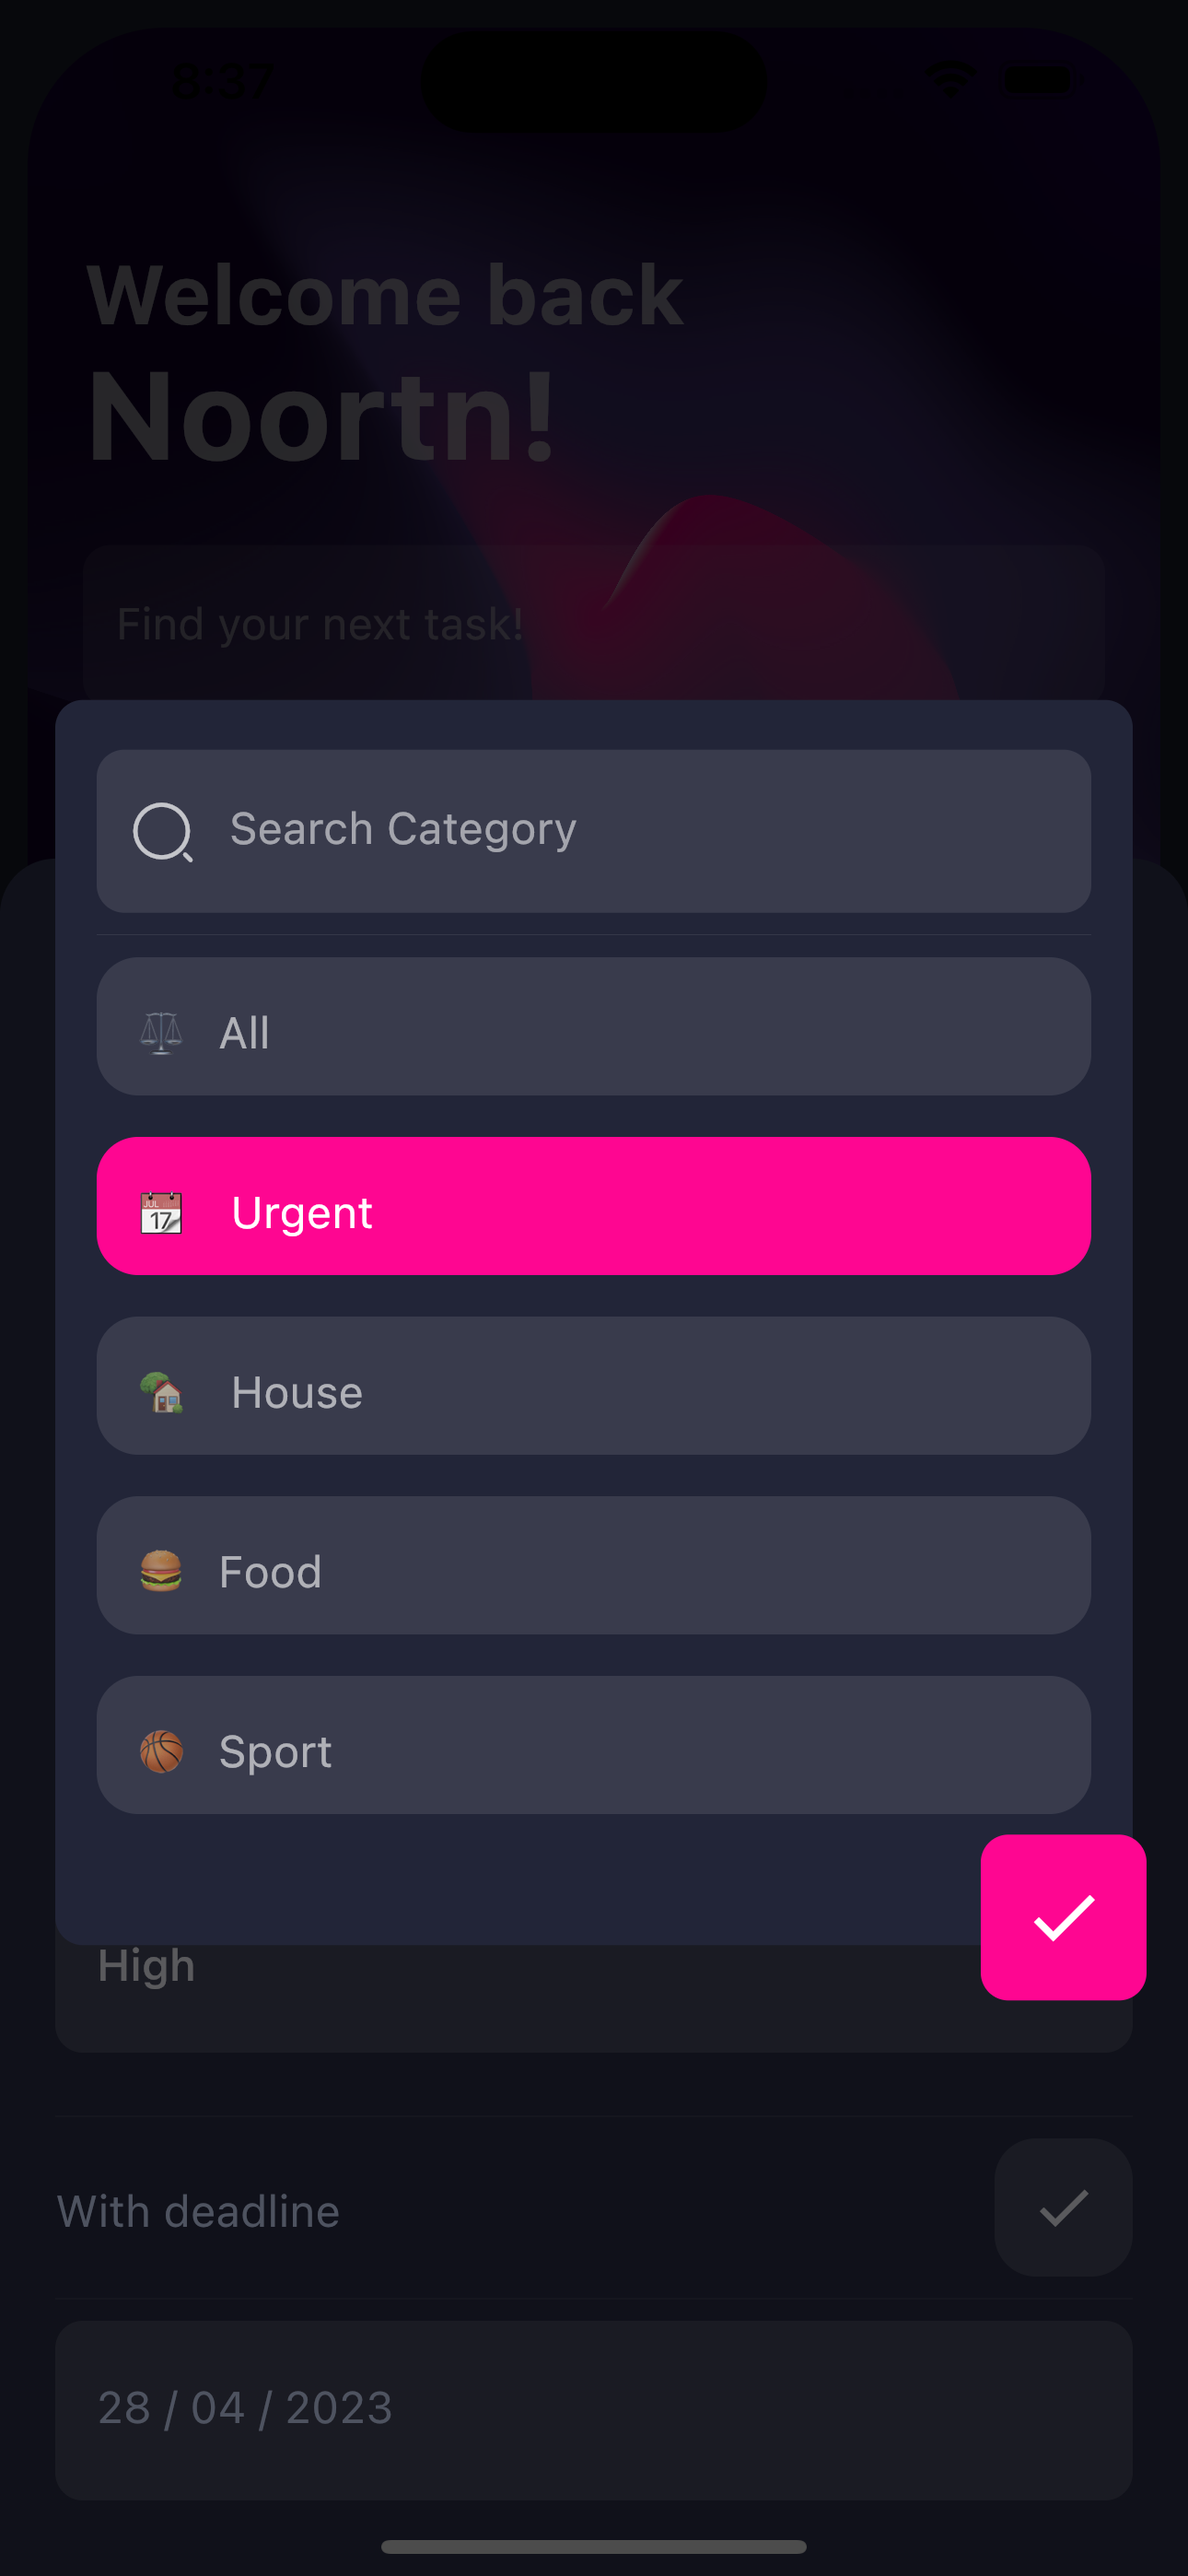
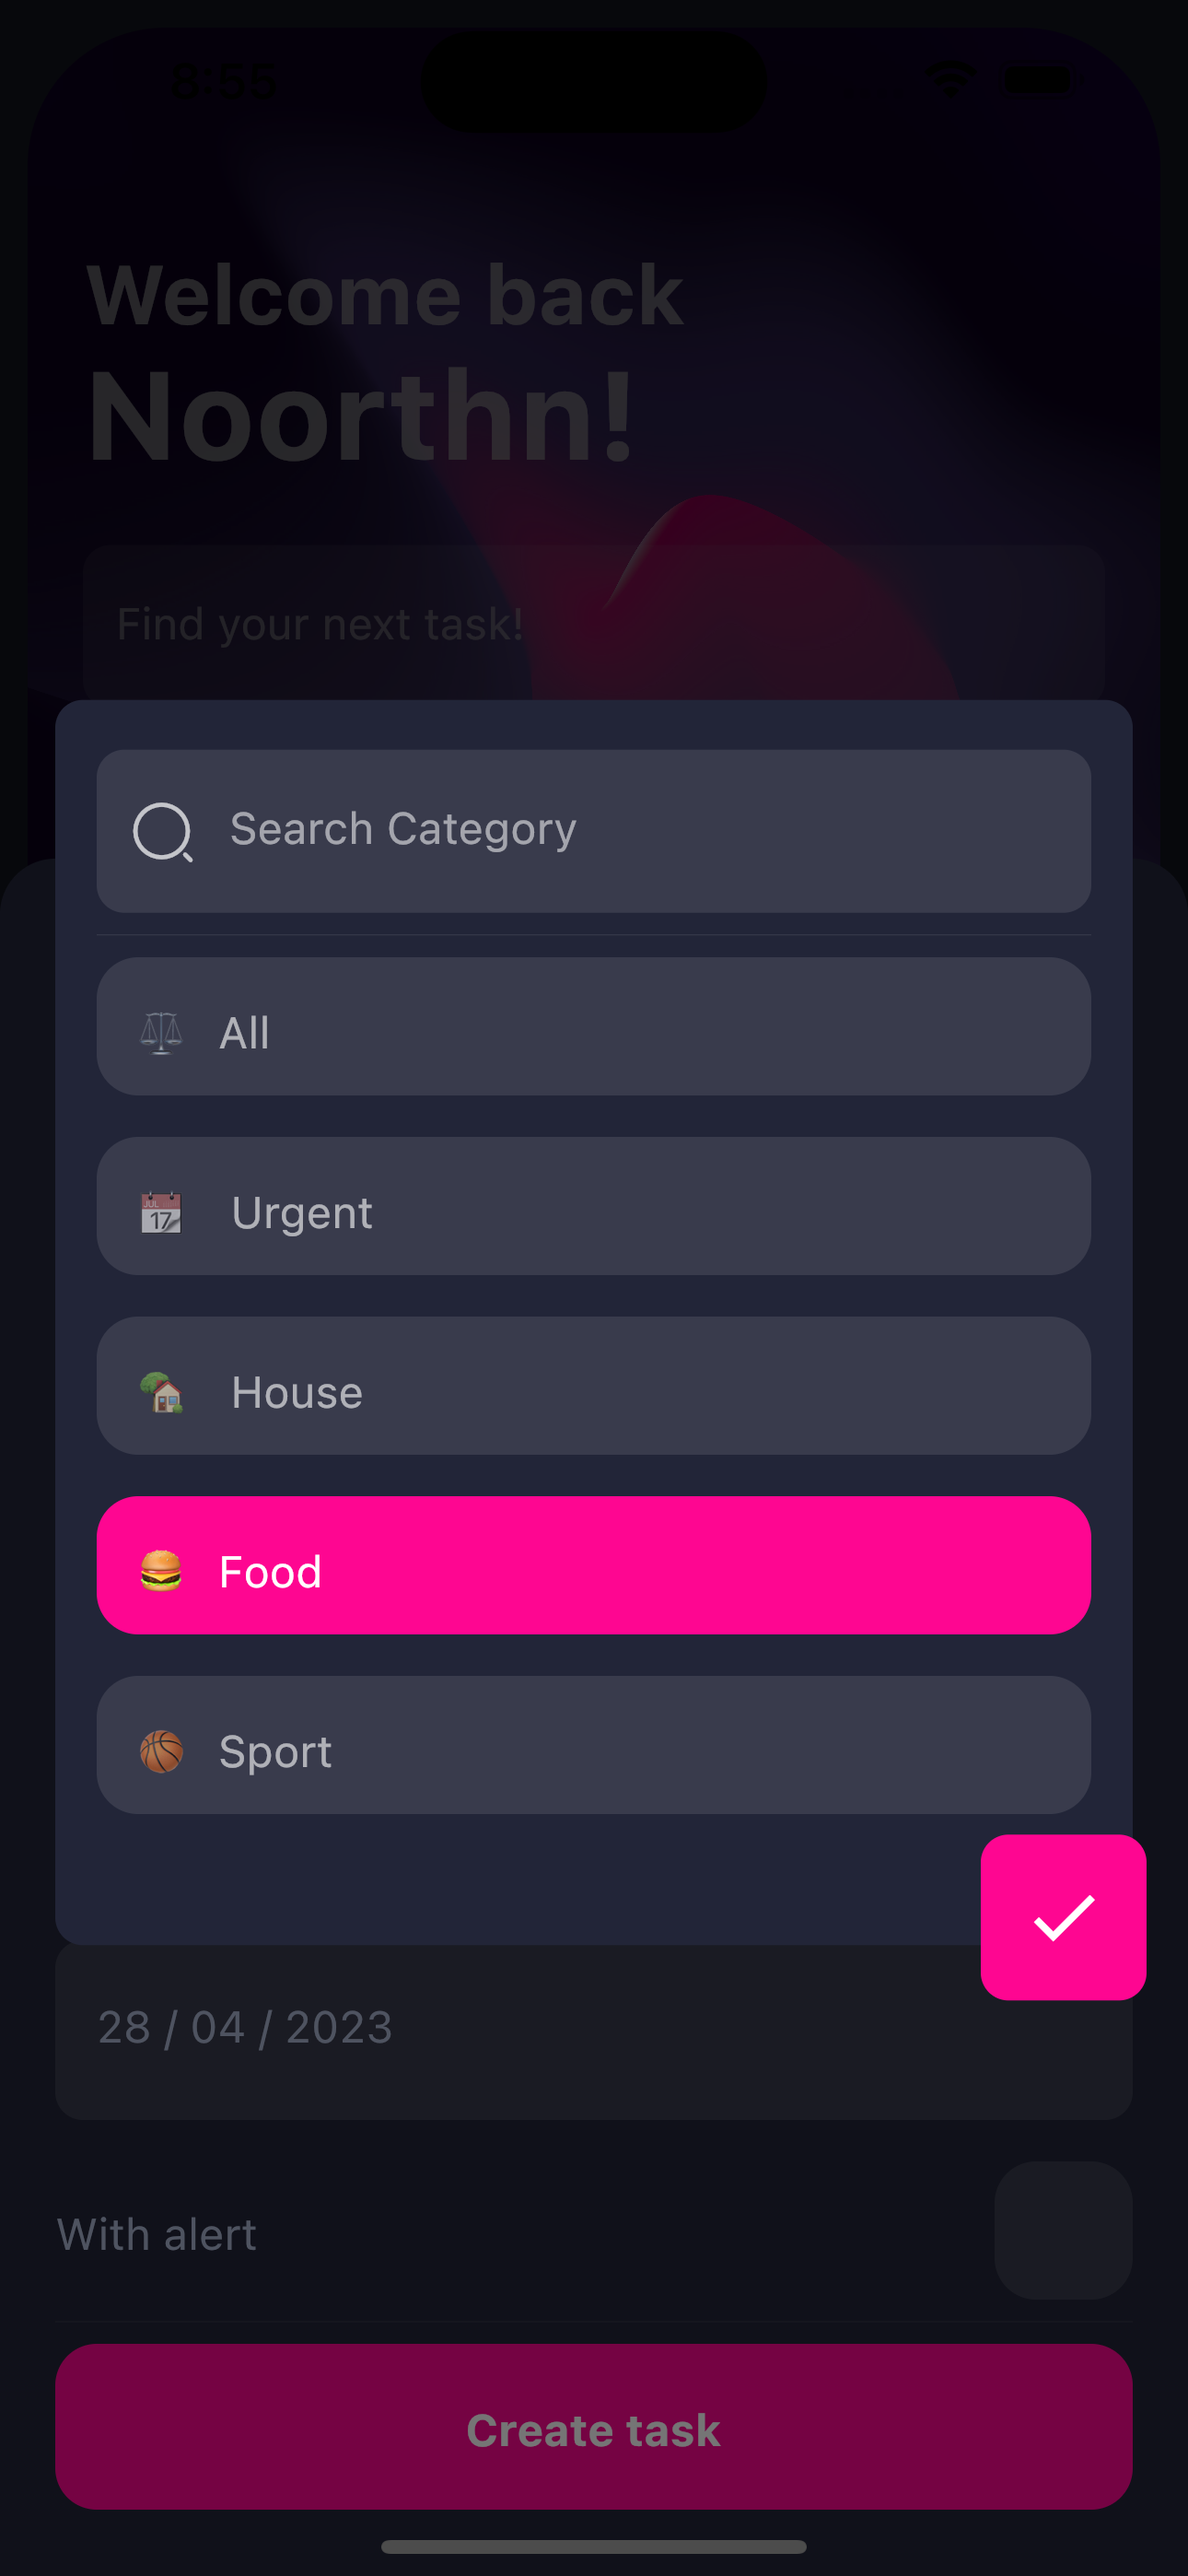
readmed

diff --git a/lib/app/modules/home/widget/ui/title.dart b/lib/app/modules/home/widget/ui/title.dart
@@ -14,7 +14,7 @@ class TitleWidget extends StatelessWidget {
         crossAxisAlignment: CrossAxisAlignment.start,
         children: const [
           Text('Welcome back', style: TextStyle(height: 1, fontWeight: FontWeight.bold, fontSize: 30, color: Colors.white70),),
-          Text('Noortn!', style: TextStyle(height: 1.2, fontWeight: FontWeight.bold, fontSize: 45, color: Colors.white70),),
+          Text('Noorthn!', style: TextStyle(height: 1.2, fontWeight: FontWeight.bold, fontSize: 45, color: Colors.white70),),
         ],
       ),
     );
